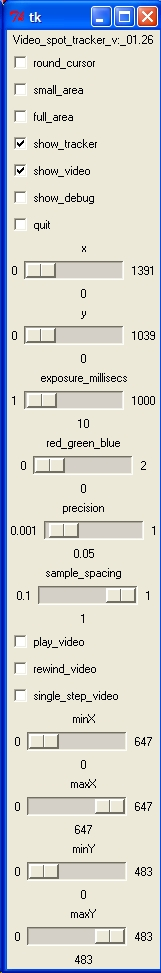
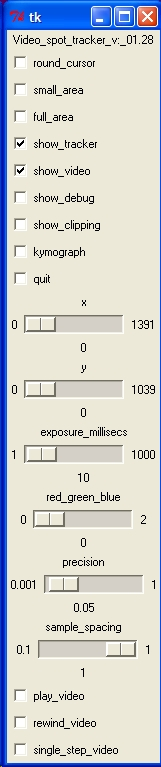
2004-02-06  Russell M. Taylor II  <taylorr@cs.unc.edu>
* video_spot_tracker.html : Updated to describe kymograph.
        * kymo_graph.jpg : Same.
        * kymo_main.jpg : Same.
        * kymo_trace.jpg : Same.

diff --git a/video_spot_tracker.html b/video_spot_tracker.html
@@ -1,6 +1,6 @@
 <title>Video Spot Tracker v01.26</title>
-<h1>Video Spot Tracker version 01.26</h1>
-<p><img src="GUI.jpg" width="161" height="973" align="right">The <i><b>Video Spot 
+<h1>Video Spot Tracker version 01.28a</h1>
+<p><img src="GUI.jpg" width="161" height="767" align="right">The <i><b>Video Spot 
   Tracker</b></i> program is used to track the motion of one or more spots in 
   a <a href="http://www.microsoft.com/directx">Microsoft DirectShow</a>-compatible 
   video file, from a <a href="http://www.microsoft.com/directx">Microsoft DirectShow</a>-compatible 
@@ -12,7 +12,7 @@
 <p>The program is run by dragging a video file onto the desktop icon that was 
   created when the program was installed. It can also be run by selecting one 
   of the camera-specific shortcuts from <i><b>Start Menu/All Programs/NSRG/Video 
-  Spot Tracker v01.25</b></i>.</p>
+  Spot Tracker v01.28a</b></i>.</p>
 <h2>Using the program</h2>
 <p>When the program is run, four windows will appear. The image window that appears 
   to the lower right contains the first image within the video file or a continually-updating 
@@ -175,6 +175,40 @@
   checkbox will step forwards one video frame each time it is pressed. The <b><i>rewind</i></b> 
   checkbox causes the video to rewind to the beginning, play the first frame of 
   the video, and then pause.</p>
+<h3>Kymograph function</h3>
+<p>Clicking on the <i><b>kymograph</b></i> button in the main control panel brings 
+  up two more windows and modifies the behavior of the first four tracked spots 
+  in the image. This function is aimed at the study of cellular mitosis, and it 
+  provides a &quot;spingle-centered&quot; trace through the image. The two centromeres 
+  define the ends of the spindle. The point halfway between the two centromeres 
+  is defined as the spindle center, which moves from frame to frame. The line 
+  through the two centromeres is defined as the spindle axis, which rotates from 
+  frame to frame.</p>
+<p><img src="kymo_main.jpg" width="680" height="546"></p>
+<p>When kymograph mode is enabled, the third and fourth points (the ones that 
+  would normally be labeled &quot;2&quot; and &quot;3&quot;) are relabeled &quot;P&quot; 
+  and &quot;A&quot; for posterior and anterior. These two points are not optimized 
+  each frame no matter what setting the kernel optimization checkbox has, as they 
+  are used to label the ends of the cell. A green line bisects the image halfway 
+  between these points, indicating the 0 value on the cell-centered axis. Negative 
+  values (to the left on the kymograph_center chart) are towards the posterior 
+  end; positive towards the anterior. The white line down the center indicates 
+  the cell center; dim lines indicate 10-pixel steps, and brighter lines indicate 
+  100-pixel steps away from the center.</p>
+<h2></h2>
+<p><img src="kymo_trace.jpg" width="349" height="130" align="right">The first 
+  window is named <b><i>kymograph</i></b> and it will accumulate traces from the 
+  image through the first two tracked points (the points labeled &quot;0&quot; 
+  and &quot;1&quot;). If there are not at least two tracked points, nothing is 
+  shown in this window. As the video is stepped through or played, a new line 
+  will be added to the window that is a resampling of the image pixels. The center 
+  of this window on each line corresponds to the spindle center and the sampling 
+  is done along the spindle axis. A green line is drawn between points 0 and 1 
+  to indicate the spindle axis, and a green cross-line indicates the spindle center.</p>
+<p><img src="kymo_graph.jpg" width="268" height="126" align="right">The second 
+  window is named <b><i>kymograph_center</i></b>, and it shows how the spindle 
+  center moves within the cell. If there are not at least four tracked points, 
+  nothing is shown in this window.</p>
 <h2>Downloading and installing the program</h2>
 <p>This program is brought to you courtesy of the National Institutes of Health 
   <a href="http://www.nibib.nih.gov/">National Institute for Biomedical Imaging 
@@ -186,6 +220,22 @@
   download page</a>. To run it, you must also download and install the <b><i>NSRG 
   Runtime</i></b> package, which is also available on that page.</p>
 <h2>Version Information</h2>
+<h3>Version 01.28a:</h3>
+<ul>
+  <li> Updated the manual. Same program as 01.28.</li>
+</ul>
+<h3></h3>
+<h3>Version 01.28:</h3>
+<ul>
+  <li> Improved kymograph now shows a trace of the spindle center with respect 
+    to the cell center.</li>
+</ul>
+<h3>Version 01.27:</h3>
+<ul>
+  <li> Added initial version of kymograph (misnamed kinograph) that records traces 
+    along the centerline between two spots. This is intended for use in cellular 
+    mitosis by placing the first two spots to be tracked on the centrosomes.</li>
+</ul>
 <h3>Version 01.26:</h3>
 <ul>
   <li> Added the output of .csv log files in addition to the .vrpn log files. 
